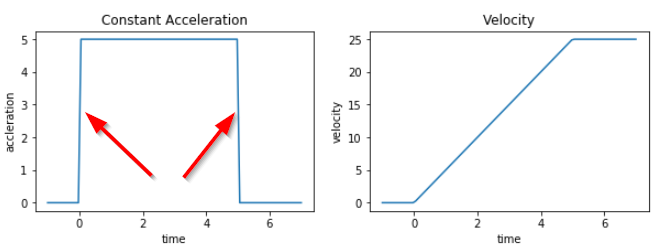
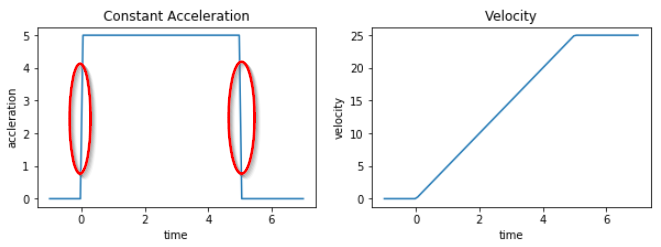
Working on project write-up

diff --git a/README.md b/README.md
@@ -5,19 +5,19 @@ This is the project repo for the final project of the Udacity Self-Driving Car N
 
 ## Smooth Acceleration Profile
 
-In reallity the car will decelerate in order to stop, starting with initial velocity v0. To make calculations simplier, it's convenient to reverse the time and think car is accelerating from initial v = 0 to final v = v0 in T seconds.
+In reallity the car will decelerate in order to stop, changing its velocity from v0 to 0. To make calculations simplier, it's convenient to reverse the time axis and think of car as accelerating from initial v = 0 to final v = v0 in T seconds.
 
 Simple waypoint velocity calculation algorithm proposed at Udacity project walkthrough is easy to implement, but it has one drawback: the car starts to brake abruptly causing high jerk that is not comfortable for passengers:
 
 ![Constant acceleration](https://github.com/cazacov/CarND-Capstone/blob/master/imgs/constant_acceleration.png?raw=true)
 
-To reduce maximum jerk I decided to take as acceleration function a part of sine wave that has max slope of 1.
+To reduce maximum jerk I decided to take al half of sine wave as acceleration function. Jerk is the first derivative of acceleration and has maximum value of 1 for the sine curve.
 
 ![Sine wave](https://github.com/cazacov/CarND-Capstone/blob/master/imgs/sine_profile.png?raw=true)
 
 In case of smooth deceleration profile the velocity at the end of braking distance is close to 0 with slope also close to 0 and that makes the PID controller unstable. The calculated velocity tends to oscilate around 0 sometimes getting small negative values. In simulator that means the car stops before the stopline, waits a little and then again moves couple of centimeters forward before stopping completely. Well, when I just got my driving license it was probably the way I was driving, but we want the smart car be better than a newbie human.
 
-To make velocity curve more PID-friendly I decided to take only the middle 80% of it, cutting 10% on both sides. After calculating derivatives and antiderivatives I got the following formulae:
+To make velocity curve more PID-friendly I decided to take only the middle part it, cutting about 10% on both sides. After calculating derivatives and antiderivatives I got the following formulae:
 
 ![Math](https://github.com/cazacov/CarND-Capstone/blob/master/imgs/acceleration_profile_math.png?raw=true)
 
@@ -25,7 +25,7 @@ The constant of integration is chosen to make s(0) = 0
 
 ![Math](https://github.com/cazacov/CarND-Capstone/blob/master/imgs/smooth_acceleration.png?raw=true)
 
-It can be easily proved that s(t) is bijective and must have inverse function in the range [0..T], but unfortunately it cannot be expressed in terms of standard matematical functions. In code I solve this problem numerically just incrementing time in small steps till I get the desired distance. Then, knowing the time, I can easily calculate velocity at that waypoint (waypoint_updater.py lines 155-158).
+It can be easily proved that s(t) is bijective and must have inverse function in the range [0..T], but unfortunately it cannot be expressed in terms of standard matematical functions. In code I solve this problem numerically by incrementing time in small steps till I get the desired distance. Then, knowing the time, I can easily calculate velocity at that waypoint (waypoint_updater.py lines 155-158).
 
 ## Traffic Light Detector
 
@@ -41,23 +41,25 @@ Traffic light has following properties that can simplify detection:
 
 To detect traffic lights on camera image I first convert it to HSV color space using opencv function. Pixels with low intensity or low color saturation are masked. Then I apply range masks to H channel to get red, yellow and green pixels.
 
-![Math](https://github.com/cazacov/CarND-Capstone/blob/master/imgs/masks.png?raw=true)
+![HSV masks](https://github.com/cazacov/CarND-Capstone/blob/master/imgs/masks.png?raw=true)
 
 ### Use Hough Circle Transform to detect circles
 
-The range filtering above works pretty well for clean simulator images. In real condistions there can be a lot of nose because of other colored objects, reflections, etc. Do be sure we are detecting a traffic light we need aditionally check if masked pixels have form of one or several circles.
+The range filtering above works pretty well for clean simulator images. In real condistions there can be a lot of nose because of other colored objects, reflections, etc. Do be sure we are detecting a traffic light we need aditionally check if masked pixels have form of one or several circles. To do that I use Hough Circle Transformation, similar to the lane finding project in previous nanondegree course. 
 
 OpenCV documentation: https://opencv-python-tutroals.readthedocs.io/en/latest/py_tutorials/py_imgproc/py_houghcircles/py_houghcircles.html
 
-![Math](https://github.com/cazacov/CarND-Capstone/blob/master/imgs/hough.png?raw=true)
+![Hough Circles](https://github.com/cazacov/CarND-Capstone/blob/master/imgs/hough.png?raw=true)
+
+The capstone project environment is based on python 2.7. It was more convenient to write detection algorithm in Jupyter Notebook in Python 3 finally copy it in ROS node code. This notebook can be found in a separate GitHub repository: https://github.com/cazacov/traffic-light-classificator/blob/master/classificator-opencv.ipynb
 
 ## ROS Topic with Detector Output
 
-The Traffic Light Detection node was extended with a new topic "/traffic_light_detected", message type: sensor_msgs/Image. After processing camera image the traffic light classifier creates a new image with marked traffic lights and their color. That is useful for debugging puposes. To view topic message stream in real type run
+The Traffic Light Detection node was extended with a new topic "/traffic_light_detected", message type: sensor_msgs/Image. After processing camera image the traffic light classifier creates a new image with marked traffic lights and their color. That is useful for debugging purposes. To view topic message stream in real type run
 ```bash
 rqt_image_view /traffic_light_detected
 ```
-Here on the screen cas you can see two image streams on the right hand side. The top one is raw camera output as provided by simulator and at the bottom there is the processed version:
+On recorded screencast you can see two image streams on the right-hand side. The top one is raw camera output as provided by simulator. Bottom-right window shows the processed version:
 
 ![Screencast](https://github.com/cazacov/CarND-Capstone/blob/master/imgs/anim.gif?raw=true)
 
